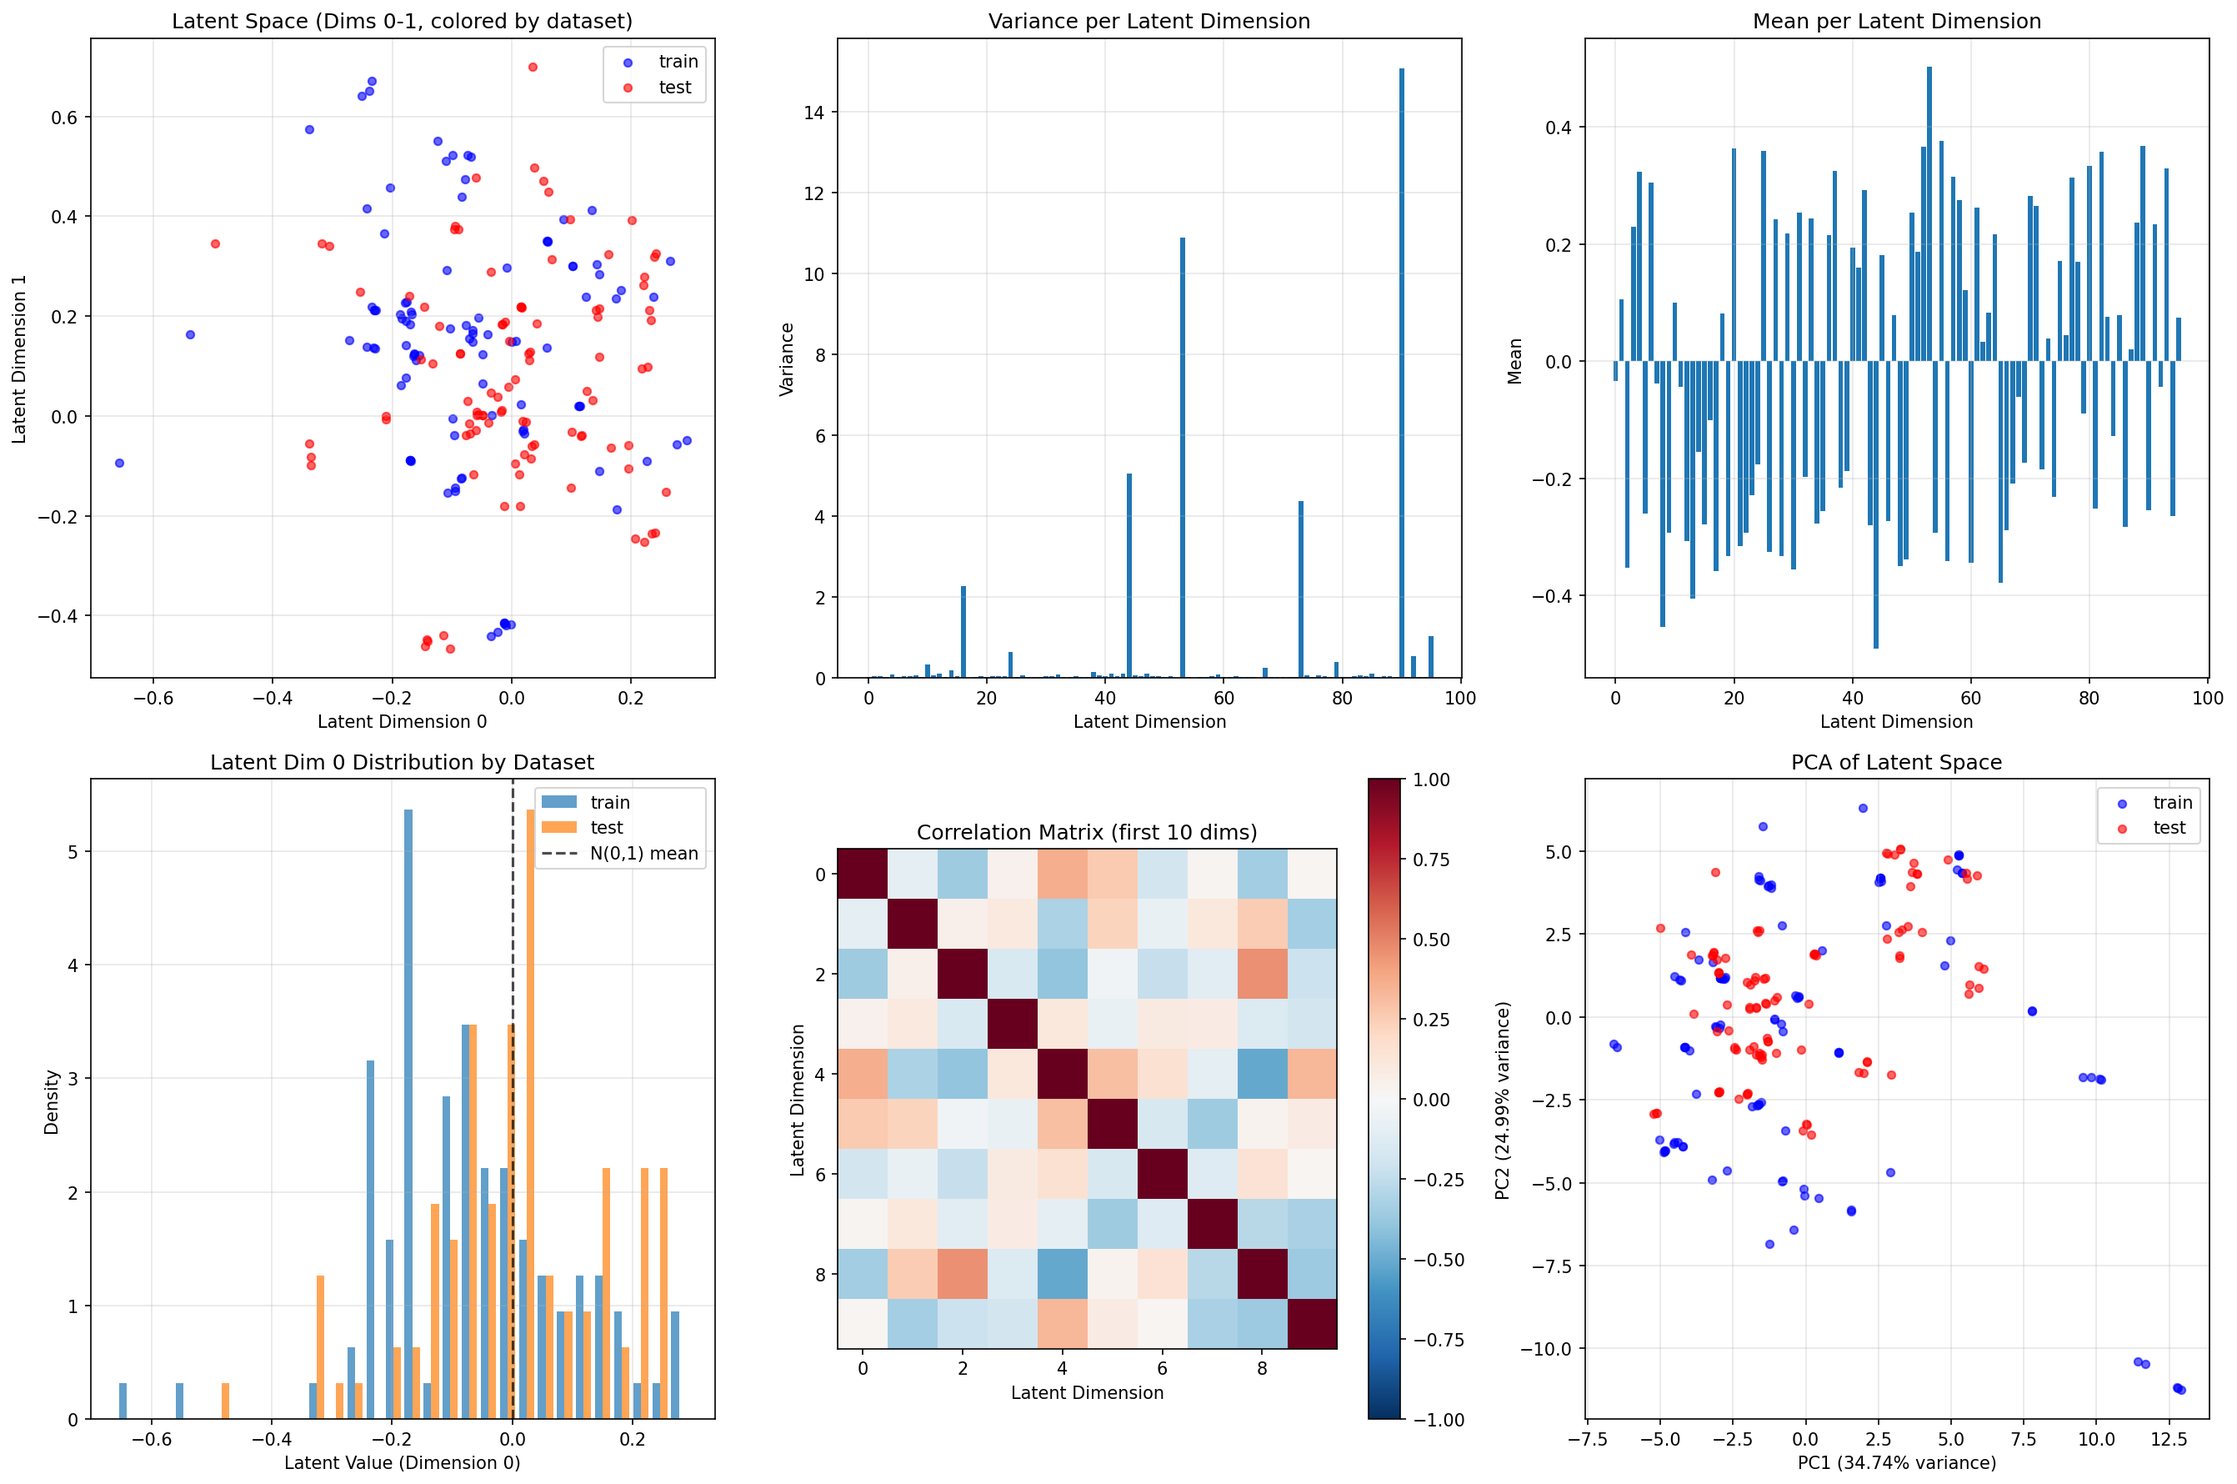
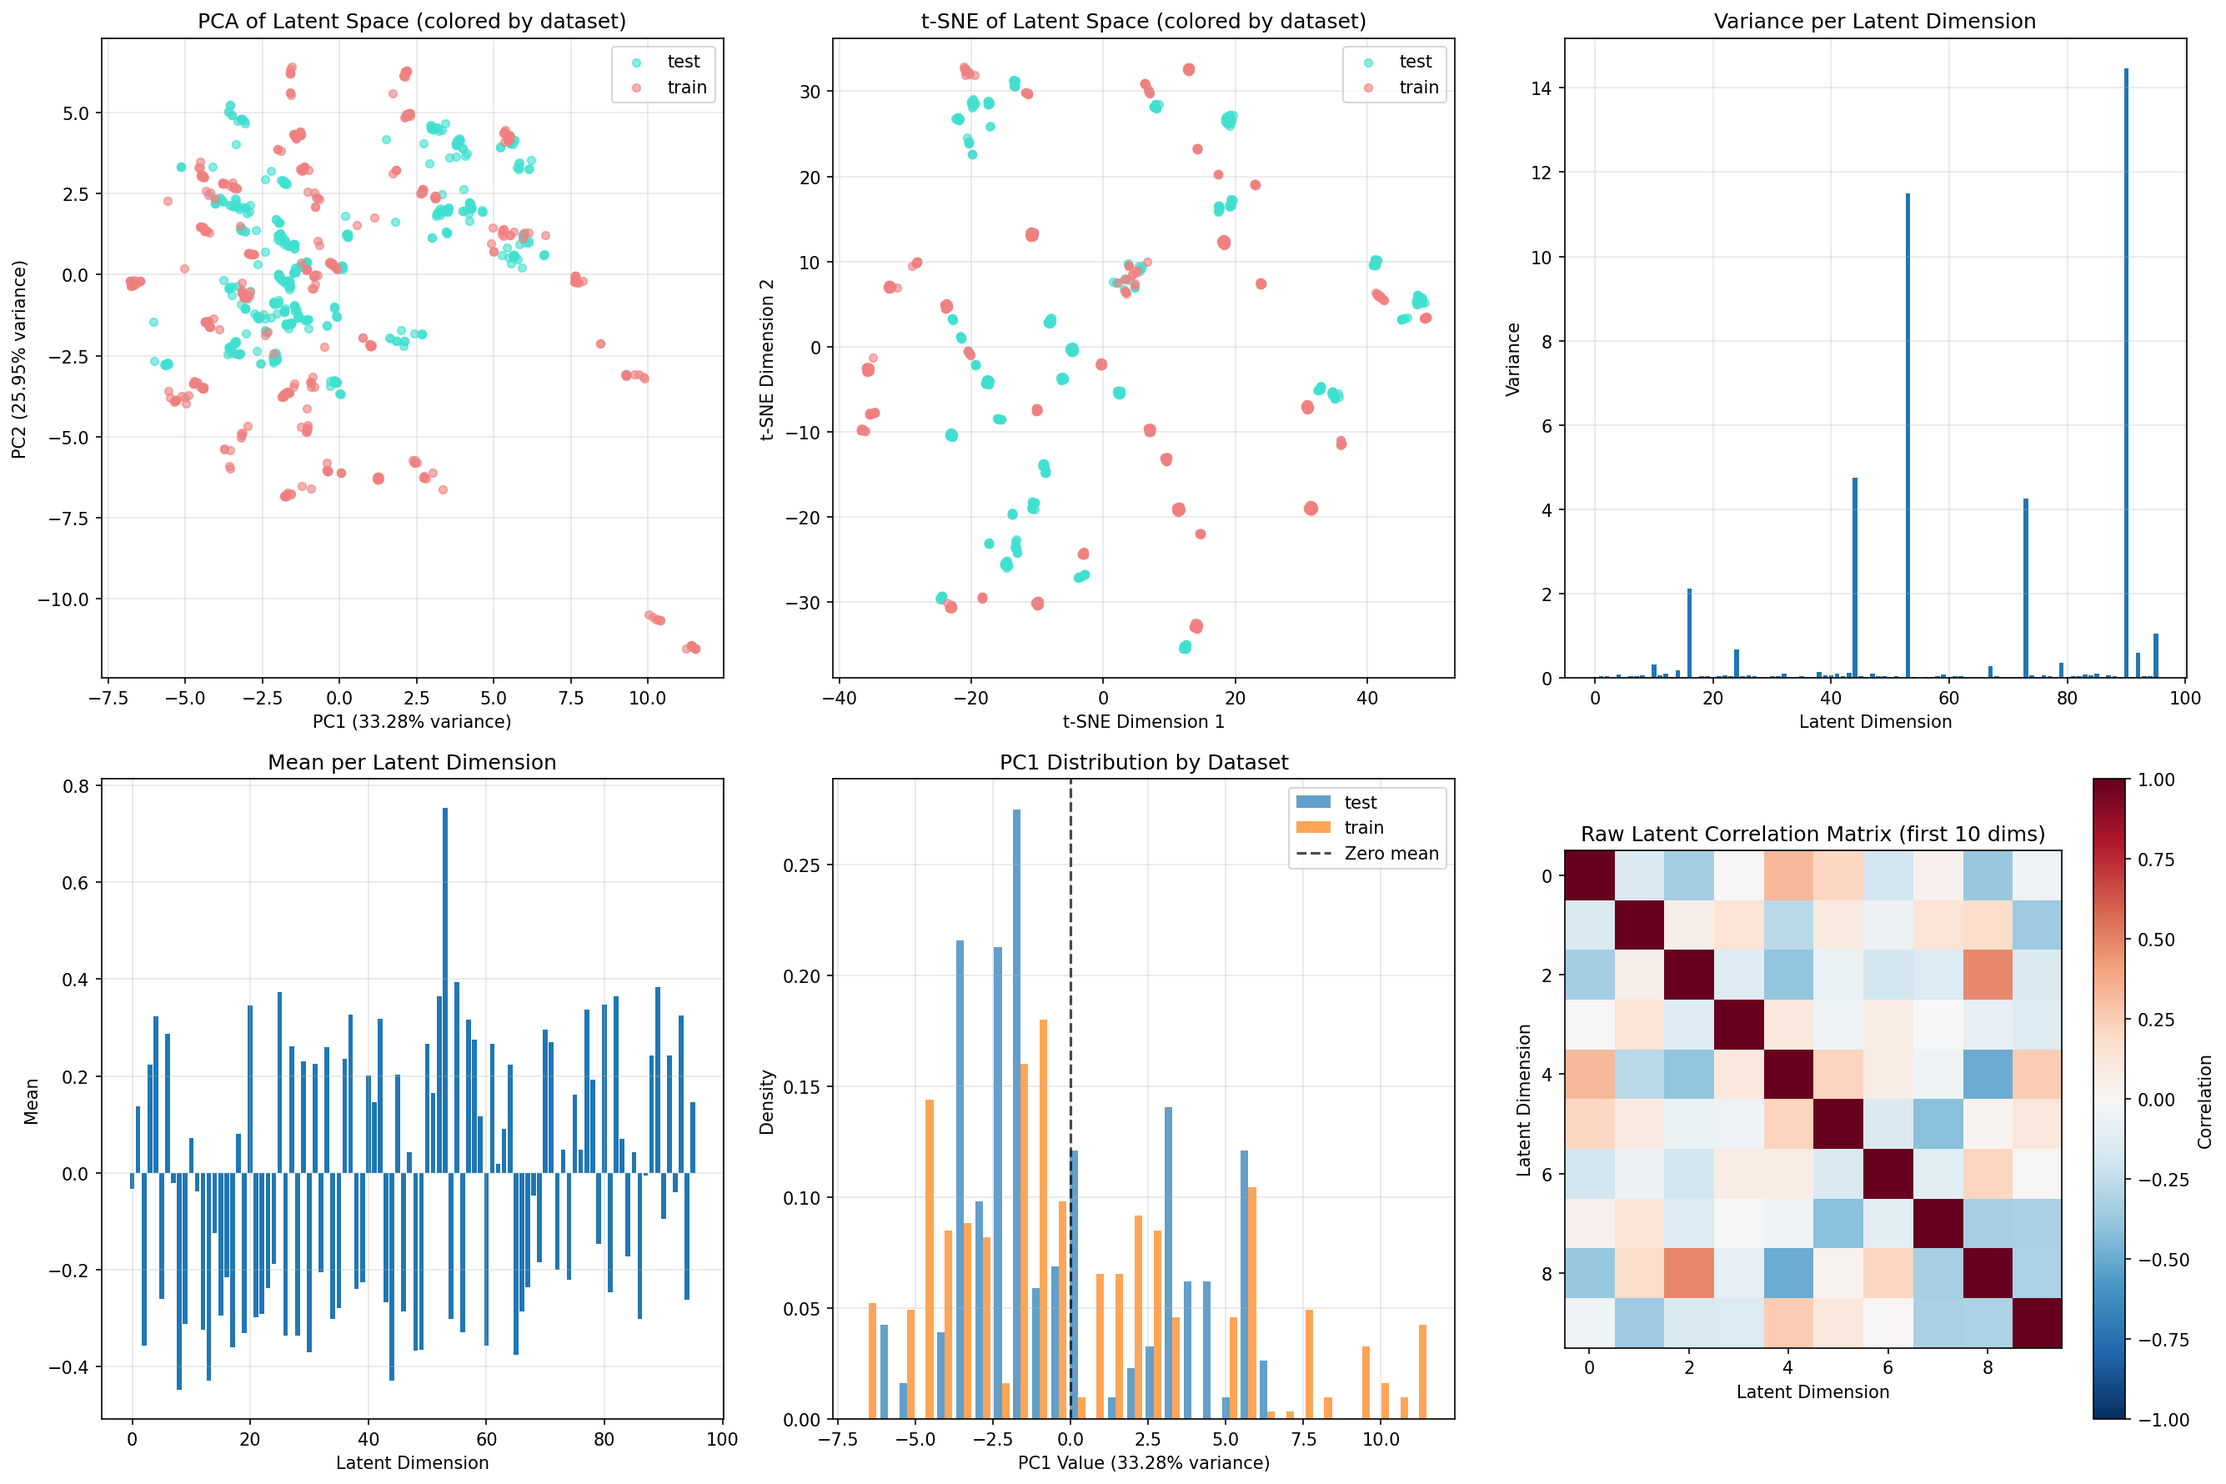
minor adjust

diff --git a/utils/analysis.py b/utils/analysis.py
@@ -8,6 +8,7 @@ import datetime as dt
 from pathlib import Path
 from PIL import Image, ImageDraw, ImageFont
 from sklearn.decomposition import PCA
+from sklearn.manifold import TSNE
 import random
 
 # xterm-ish 16-color palette (0–7 normal, 8–15 bright)
@@ -449,7 +450,7 @@ def analyze_latent_space(
     # Create dataset color mapping
     unique_datasets = list(set([info['dataset'] for info in sample_info]))
     dataset_colors = {}
-    colors = ['blue', 'red', 'green', 'orange', 'purple', 'brown', 'pink', 'gray']
+    colors = ['turquoise', 'lightcoral', 'green', 'orange', 'purple', 'brown', 'pink', 'gray']
     for i, dataset in enumerate(unique_datasets):
         dataset_colors[dataset] = colors[i % len(colors)]
     
@@ -470,88 +471,114 @@ def analyze_latent_space(
     print(f"  - Latent mean: {np.mean(latent_vectors, axis=0)[:5]}...")
     print(f"  - Latent std: {np.std(latent_vectors, axis=0)[:5]}...")
     
+    # Compute PCA and t-SNE first for use in multiple plots
+    pca = PCA(n_components=min(10, latent_vectors.shape[1]))
+    latent_pca = pca.fit_transform(latent_vectors)
+    pca_explained_variance = pca.explained_variance_ratio_
+        
+    print("🔄 Computing t-SNE embedding (this may take a moment)...")
+    tsne = TSNE(n_components=2, random_state=42, perplexity=min(30, len(latent_vectors)//4))
+    latent_tsne = tsne.fit_transform(latent_vectors)
+    
+    # Compute statistics for plots
+    latent_vars = np.var(latent_vectors, axis=0)
+    latent_means = np.mean(latent_vectors, axis=0)
+    
     # Create comprehensive visualization
     fig, axes = plt.subplots(2, 3, figsize=(18, 12))
     
-    # 1. First two latent dimensions colored by dataset
-    for dataset in unique_datasets:
-        mask = [info['dataset'] == dataset for info in sample_info]
-        if any(mask):
-            dataset_latents = latent_vectors[mask]
-            axes[0, 0].scatter(dataset_latents[:, 0], dataset_latents[:, 1], 
-                              c=dataset_colors[dataset], label=dataset, alpha=0.6, s=20)
-    
-    axes[0, 0].set_xlabel('Latent Dimension 0')
-    axes[0, 0].set_ylabel('Latent Dimension 1')
-    axes[0, 0].set_title('Latent Space (Dims 0-1, colored by dataset)')
-    axes[0, 0].legend()
-    axes[0, 0].grid(True, alpha=0.3)
-    
-    # 2. Latent dimension variances
-    latent_vars = np.var(latent_vectors, axis=0)
-    axes[0, 1].bar(range(len(latent_vars)), latent_vars)
-    axes[0, 1].set_xlabel('Latent Dimension')
-    axes[0, 1].set_ylabel('Variance')
-    axes[0, 1].set_title('Variance per Latent Dimension')
-    axes[0, 1].grid(True, alpha=0.3)
-    
-    # 3. Latent means
-    latent_means = np.mean(latent_vectors, axis=0)
-    axes[0, 2].bar(range(len(latent_means)), latent_means)
-    axes[0, 2].set_xlabel('Latent Dimension')
-    axes[0, 2].set_ylabel('Mean')
-    axes[0, 2].set_title('Mean per Latent Dimension')
-    axes[0, 2].grid(True, alpha=0.3)
-    
-    # 4. Distribution comparison between datasets
-    dataset_latent_values = []
-    for dataset in unique_datasets:
-        mask = [info['dataset'] == dataset for info in sample_info]
-        if any(mask):
-            dataset_latents = latent_vectors[mask, 0]  # Get first dimension values for this dataset
-            dataset_latent_values.append(dataset_latents)
-        else:
-            dataset_latent_values.append(np.array([]))  # Empty array if no samples
-    
-    # Only plot non-empty datasets
-    non_empty_datasets = [ds for ds, vals in zip(unique_datasets, dataset_latent_values) if len(vals) > 0]
-    non_empty_values = [vals for vals in dataset_latent_values if len(vals) > 0]
-    
-    if non_empty_values:
-        axes[1, 0].hist(non_empty_values, bins=30, alpha=0.7, label=non_empty_datasets, density=True)
-    
-    axes[1, 0].axvline(0, color='black', linestyle='--', alpha=0.7, label='N(0,1) mean')
-    axes[1, 0].set_xlabel('Latent Value (Dimension 0)')
-    axes[1, 0].set_ylabel('Density')
-    axes[1, 0].set_title('Latent Dim 0 Distribution by Dataset')
-    axes[1, 0].legend()
-    axes[1, 0].grid(True, alpha=0.3)
-    
-    # 5. Pairwise correlations (first 10 dimensions)
-    n_dims_to_show = min(10, latent_vectors.shape[1])
-    corr_matrix = np.corrcoef(latent_vectors[:, :n_dims_to_show].T)
-    im = axes[1, 1].imshow(corr_matrix, cmap='RdBu_r', vmin=-1, vmax=1)
-    axes[1, 1].set_xlabel('Latent Dimension')
-    axes[1, 1].set_ylabel('Latent Dimension')
-    axes[1, 1].set_title(f'Correlation Matrix (first {n_dims_to_show} dims)')
-    plt.colorbar(im, ax=axes[1, 1])
-    
-    # 6. Principal components analysis colored by dataset
-    pca = PCA(n_components=2)
-    latent_pca = pca.fit_transform(latent_vectors)
-    
+    # 1. PCA of latent space colored by dataset (moved to first position)
     for dataset in unique_datasets:
         mask = [info['dataset'] == dataset for info in sample_info]
         if any(mask):
             dataset_pca = latent_pca[mask]
-            axes[1, 2].scatter(dataset_pca[:, 0], dataset_pca[:, 1], 
+            axes[0, 0].scatter(dataset_pca[:, 0], dataset_pca[:, 1], 
                                 c=dataset_colors[dataset], label=dataset, alpha=0.6, s=20)
     
-    axes[1, 2].set_xlabel(f'PC1 ({pca.explained_variance_ratio_[0]:.2%} variance)')
-    axes[1, 2].set_ylabel(f'PC2 ({pca.explained_variance_ratio_[1]:.2%} variance)')
-    axes[1, 2].set_title('PCA of Latent Space')
-    axes[1, 2].legend()
-    axes[1, 2].grid(True, alpha=0.3)
+    axes[0, 0].set_xlabel(f'PC1 ({pca_explained_variance[0]:.2%} variance)')
+    axes[0, 0].set_ylabel(f'PC2 ({pca_explained_variance[1]:.2%} variance)')
+    axes[0, 0].set_title('PCA of Latent Space (colored by dataset)')
+    axes[0, 0].legend()
+    axes[0, 0].grid(True, alpha=0.3)
+    
+    # 2. t-SNE of latent space colored by dataset
+    if latent_tsne is not None:
+        for dataset in unique_datasets:
+            mask = [info['dataset'] == dataset for info in sample_info]
+            if any(mask):
+                dataset_tsne = latent_tsne[mask]
+                axes[0, 1].scatter(dataset_tsne[:, 0], dataset_tsne[:, 1], 
+                                    c=dataset_colors[dataset], label=dataset, alpha=0.6, s=20)
+        
+        axes[0, 1].set_xlabel('t-SNE Dimension 1')
+        axes[0, 1].set_ylabel('t-SNE Dimension 2')
+        axes[0, 1].set_title('t-SNE of Latent Space (colored by dataset)')
+        axes[0, 1].legend()
+        axes[0, 1].grid(True, alpha=0.3)
+    else:
+        # Fallback: show first two latent dimensions
+        for dataset in unique_datasets:
+            mask = [info['dataset'] == dataset for info in sample_info]
+            if any(mask):
+                dataset_latents = latent_vectors[mask]
+                axes[0, 1].scatter(dataset_latents[:, 0], dataset_latents[:, 1], 
+                                  c=dataset_colors[dataset], label=dataset, alpha=0.6, s=20)
+        
+        axes[0, 1].set_xlabel('Latent Dimension 0')
+        axes[0, 1].set_ylabel('Latent Dimension 1')
+        axes[0, 1].set_title('Raw Latent Space (t-SNE unavailable)')
+        axes[0, 1].legend()
+        axes[0, 1].grid(True, alpha=0.3)
+    
+    # 3. Variance per latent dimension
+    axes[0, 2].bar(range(len(latent_vars)), latent_vars)
+    axes[0, 2].set_xlabel('Latent Dimension')
+    axes[0, 2].set_ylabel('Variance')
+    axes[0, 2].set_title('Variance per Latent Dimension')
+    axes[0, 2].grid(True, alpha=0.3)
+    
+    # 4. Mean per latent dimension
+    axes[1, 0].bar(range(len(latent_means)), latent_means)
+    axes[1, 0].set_xlabel('Latent Dimension')
+    axes[1, 0].set_ylabel('Mean')
+    axes[1, 0].set_title('Mean per Latent Dimension')
+    axes[1, 0].grid(True, alpha=0.3)
+    
+    # 5. PC1 distribution by dataset (instead of first latent dimension)
+    dataset_pc1_values = []
+    for dataset in unique_datasets:
+        mask = [info['dataset'] == dataset for info in sample_info]
+        if any(mask):
+            dataset_pc1 = latent_pca[mask, 0]  # Get PC1 values for this dataset
+            dataset_pc1_values.append(dataset_pc1)
+        else:
+            dataset_pc1_values.append(np.array([]))  # Empty array if no samples
+    
+    # Only plot non-empty datasets
+    non_empty_datasets = [ds for ds, vals in zip(unique_datasets, dataset_pc1_values) if len(vals) > 0]
+    non_empty_values = [vals for vals in dataset_pc1_values if len(vals) > 0]
+    
+    if non_empty_values:
+        axes[1, 1].hist(non_empty_values, bins=30, alpha=0.7, label=non_empty_datasets, density=True)
+    
+    axes[1, 1].axvline(0, color='black', linestyle='--', alpha=0.7, label='Zero mean')
+    axes[1, 1].set_xlabel(f'PC1 Value ({pca_explained_variance[0]:.2%} variance)')
+    axes[1, 1].set_ylabel('Density')
+    axes[1, 1].set_title('PC1 Distribution by Dataset')
+    axes[1, 1].legend()
+    axes[1, 1].grid(True, alpha=0.3)
+    
+    # 6. Correlation matrix of first 10 raw latent dimensions
+    n_dims_to_show = min(10, latent_vectors.shape[1])
+    corr_matrix = np.corrcoef(latent_vectors[:, :n_dims_to_show].T)
+    im = axes[1, 2].imshow(corr_matrix, cmap='RdBu_r', vmin=-1, vmax=1)
+    axes[1, 2].set_xlabel('Latent Dimension')
+    axes[1, 2].set_ylabel('Latent Dimension')
+    axes[1, 2].set_title(f'Raw Latent Correlation Matrix (first {n_dims_to_show} dims)')
+    
+    # Add correlation colorbar
+    cbar = plt.colorbar(im, ax=axes[1, 2])
+    cbar.set_label('Correlation')
     
     pca_explained_variance = pca.explained_variance_ratio_
     
@@ -559,14 +586,20 @@ def analyze_latent_space(
     plt.savefig(save_path, dpi=150, bbox_inches='tight')
     plt.show()
     
-    # Generate TTY visualization grid (same as before)
-    print(f"\n🎮 Generating TTY visualization grid...")
-    W = torch.linalg.svd(torch.tensor(latent_vectors, dtype=torch.float32)).Vh[:2]
+    # Generate TTY visualization grid using PCA components
+    print(f"\n🎮 Generating TTY visualization grid using PCA space...")
+    # Use first 2 PCA components for the grid
+    W = pca.components_[:2]  # [2, latent_dim] - first 2 principal components
     num_per_axis = 5
     points = torch.distributions.Normal(0,1).icdf(torch.linspace(0.01, 0.99, num_per_axis))
     XX, YY = torch.meshgrid(points, points, indexing='ij')
-    XXYY = torch.stack((XX, YY)).reshape(2, -1).T
-    latent_grid = XXYY @ W
+    XXYY = torch.stack((XX, YY)).reshape(2, -1).T  # [25, 2]
+    
+    # Transform from PCA space back to latent space
+    pca_grid = XXYY.numpy()  # [25, 2] in PCA space
+    # To go from PCA space to latent space: latent = pca_coords @ components + mean
+    latent_grid = pca_grid @ W + latent_means[np.newaxis, :]  # [25, latent_dim]
+    latent_grid = torch.tensor(latent_grid, dtype=torch.float32)
     
     with torch.no_grad():
         decode_output = model.decode(latent_grid.to(device))
@@ -576,7 +609,7 @@ def analyze_latent_space(
     # Create TTY grid visualization
     from utils.analysis import _render_map_image
     tty_fig, tty_axes = plt.subplots(num_per_axis, num_per_axis, figsize=(30, 10))
-    tty_fig.suptitle('Generated NetHack States from Latent Space Grid (5x5)', fontsize=20, y=0.98)
+    tty_fig.suptitle('Generated NetHack States from PCA Latent Space Grid (5x5)', fontsize=20, y=0.98)
 
     print(f"🎨 Rendering {num_per_axis * num_per_axis} NetHack states...")
     n = min(len(chars), num_per_axis * num_per_axis)
@@ -600,25 +633,34 @@ def analyze_latent_space(
     print(f"Enhanced latent space analysis saved to {save_path}")
     print(f"TTY grid visualization saved to {tty_save_path}")
     
-    # Enhanced statistics with balanced sampling info
-    print(f"\n📈 Enhanced Statistics (Balanced Sampling):")
+    # Enhanced statistics with PCA focus
+    print(f"\n📈 Enhanced Statistics (PCA-Focused Analysis):")
     print(f"  - Effective dimensionality (dims with var > 0.01): {np.sum(latent_vars > 0.01)}")
     print(f"  - High variance dimensions (var > 0.1): {np.sum(latent_vars > 0.1)}")
     print(f"  - Dimensions close to N(0,1): {np.sum((np.abs(latent_means) < 0.1) & (np.abs(latent_vars - 1.0) < 0.2))}")
-    print(f"  - PCA explained variance (first 2 components): {pca_explained_variance[:2].sum():.2%}")
+    print(f"  - PCA components computed: {len(pca_explained_variance)}")
+    print(f"  - PCA explained variance (first 5 components): {pca_explained_variance[:5]}")
+    print(f"  - PCA cumulative variance (first 5): {np.cumsum(pca_explained_variance[:5])}")
+    print(f"  - t-SNE computation: successful")
     
     print(f"\n🎯 Dataset Balance Analysis:")
     for dataset in unique_datasets:
         mask = [info['dataset'] == dataset for info in sample_info]
         dataset_latents = latent_vectors[mask]
         if len(dataset_latents) > 0:
+            # Analyze in both raw latent space and PCA space
+            dataset_pca = latent_pca[mask]
             dataset_mean_norm = np.linalg.norm(dataset_latents.mean(axis=0))
             dataset_std_norm = np.linalg.norm(dataset_latents.std(axis=0))
+            dataset_pc1_mean = dataset_pca[:, 0].mean()
+            dataset_pc1_std = dataset_pca[:, 0].std()
             print(f"  - {dataset} dataset:")
             print(f"    * Samples: {len(dataset_latents)}")
-            print(f"    * Mean norm: {dataset_mean_norm:.3f}")
-            print(f"    * Std norm: {dataset_std_norm:.3f}")
+            print(f"    * Raw latent mean norm: {dataset_mean_norm:.3f}")
+            print(f"    * Raw latent std norm: {dataset_std_norm:.3f}")
+            print(f"    * PC1 mean: {dataset_pc1_mean:.3f}, PC1 std: {dataset_pc1_std:.3f}")
             print(f"    * Latent range: [{dataset_latents.min():.3f}, {dataset_latents.max():.3f}]")
+            print(f"    * PC1 range: [{dataset_pca[:, 0].min():.3f}, {dataset_pca[:, 0].max():.3f}]")
     
     return {
         'latent_vectors': latent_vectors,
@@ -628,6 +670,8 @@ def analyze_latent_space(
         'latent_vars': latent_vars,
         'pca_components': latent_pca,
         'pca_explained_variance': pca_explained_variance,
+        'pca_model': pca,  # Include the fitted PCA model
+        'tsne_components': latent_tsne,
         'dataset_labels': unique_datasets,
         'tty_grid_path': tty_save_path
     }

diff --git a/vae_analysis/test_recon_comparison.md b/vae_analysis/test_recon_comparison.md
@@ -1,6 +1,6 @@
 # VAE Reconstruction Comparison
 
-_Generated: 2025-08-11T14:03:28_
+_Generated: 2025-08-11T15:00:00_
 
 ## Sample 0
 

diff --git a/vae_analysis/train_recon_comparison.md b/vae_analysis/train_recon_comparison.md
@@ -1,6 +1,6 @@
 # VAE Reconstruction Comparison
 
-_Generated: 2025-08-11T14:03:26_
+_Generated: 2025-08-11T14:59:58_
 
 ## Sample 0
 
